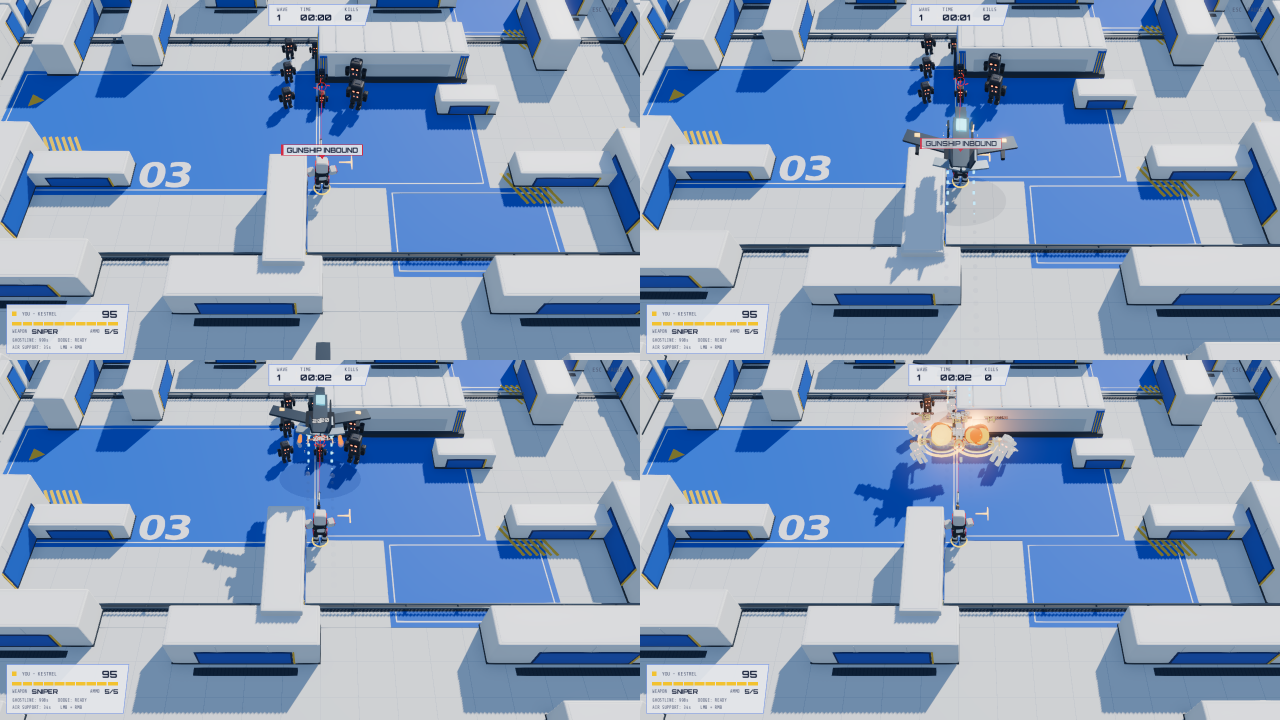
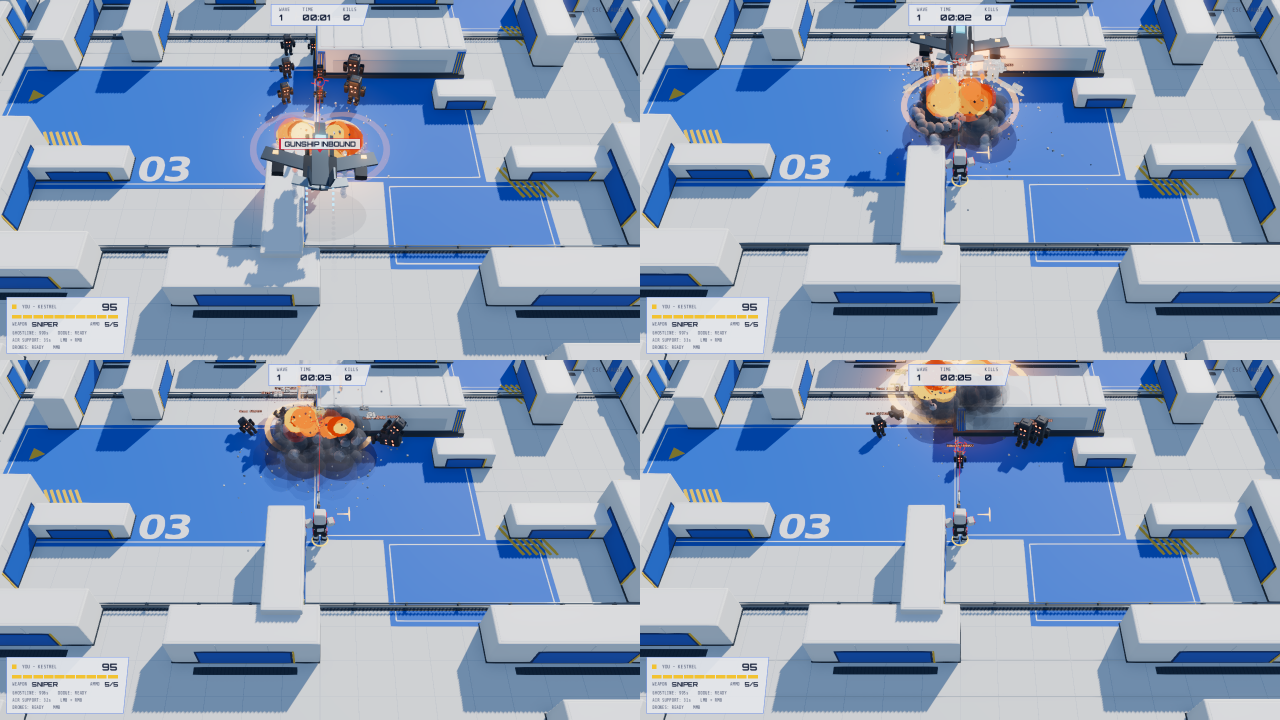
Turn gunship support into a five-second explosive bombardment

diff --git a/docs/verification.md b/docs/verification.md
@@ -493,3 +493,11 @@ At 1920 × 1080 on Intel Iris Xe, a warmed four-second Forward+ run with 73 live
 - Pause freezes drones and cooldowns. Waiting drones persist through upgrade screens and allow the next wave; committed terminal dives finish before phase changes. New chapters, restart, defeat and caller removal clean up transient swarms.
 - Added `tests/drone_swarm.gd`: all six operatives, whole-crowd ray targeting, five-second phase boundary, distinct dive targets, single-use cleanup, hover/follow, arrivals and lost targets, cover, boss balance, friendly fire, cooldown/stacking limits, actual middle-mouse input during a special, pause, upgrade handoff and reset. Rendered the actual mesh, ray sweep, terminal dives and explosions in `evidence/drone_swarm.png` using `tests/capture_drones.gd`. README, in-game control cards, per-player HUD and master prompt document the ability.
 - Validation: all 14 gameplay/ability suites passed, including the full campaign and cinematic/blade regressions; the rendered drone capture completed without errors. Linux and Windows release exports include compiled `drone_swarm.gdc`. Re-ran the full swarm suite against each exported PCK using the Godot engine: both passed. Both ZIPs passed CRC checks and the Linux executable launch smoke check passed.
+
+## Heavy five-second gunship bombardment (2026-10-18)
+
+- Extended the shared aircraft pass from 3.5 to five game seconds, with a slower, closer flight and targeting brackets held across the full attack. The aircraft now has heavier cannon barrels and visible underwing rocket racks.
+- Twin cannons fire 20 bursts / 40 visible explosive shells across the target strip, replacing small bullet hits with 52-damage, 2.6 m splash blasts. Four paired salvos launch eight larger rockets with 130 damage, 4.2 m splash and stronger knockback. All impacts use the same fireballs, rolling smoke, sparks, chunks, flash lights, shockwave rings and scorch marks as grenade/rocket weapons.
+- Preserved the independent 35-second cooldown, input chord, ability/overcharge scaling, reduced boss damage, friendly-fire protection and aerial kill staging. Scheduled launch times let late frames catch up without discarding the final ordnance at cleanup.
+- Extended `tests/air_support.gd` to verify all six operatives, the full fifth second, exactly 40 shell and eight rocket impacts, expanded splash, upgrade/overcharge and boss scaling, pause, allies, phase handoff, reset, and complete delivery at two frames per second. Updated README/master prompt and refreshed the rendered four-frame `evidence/air_support.png` capture at 0.9, 2.0, 3.1 and 4.45 seconds.
+- Validation: updated air-support suite and six related regressions (gameplay, drone swarm, specials, Kestrel, kill-cam timing, progression) passed. Rendered support captures completed without errors. Both desktop release exports compiled cleanly; the full support suite passed against both exported resource packs. ZIP CRC checks and Linux executable launch passed.

diff --git a/README.md b/README.md
@@ -37,7 +37,7 @@ You need a GPU with Vulkan support for the Forward+ renderer.
 - **Squad play:** solo, with an AI companion, or local co-op on keyboard + pad or two pads. Downed partners can be revived.
 - **Progression:** 17 upgrades between waves and five timed power-ups.
 - **Kill cams:** every 9th kill and the boss get a cinematic: bullet cam, impact zoom, blast crane or blade orbit.
-- **Air support:** every operative can call a visible gunship strafe at the cursor with both mouse buttons (both triggers on a pad), on a separate 35-second cooldown.
+- **Air support:** every operative can call a five-second gunship bombardment at the cursor with both mouse buttons (both triggers on a pad). Twin cannons fire 40 explosive shells and four paired salvos launch eight heavy rockets, with grenade/rocket fireballs, smoke, debris and shockwaves. Separate 35-second cooldown; teammates are safe.
 - **Drone swarm:** middle-click deploys three armored quad-rotors for every operative (right-stick click on a pad). They sweep enemies with ray guns for five seconds, then spread out into kamikaze attacks. Unused drones hover beside you until a new enemy appears. Separate 40-second cooldown; one active swarm per player.
 - **Effects:** voxel shattering, explosions with shockwaves, disintegration under energy weapons, shell casings and tracers.
 - **Audio:** realistic gunfire, sound effects and music generated with ElevenLabs.
@@ -114,7 +114,7 @@ Elites always drop a power-up, and bosses drop four pickups.
 | WASD | Move |
 | Mouse | Aim |
 | Left / right mouse button | Primary / special |
-| Left + right mouse buttons together | Gunship air support at the cursor (35 s cooldown) |
+| Left + right mouse buttons together | 5 s gunship bombardment at the cursor (35 s cooldown) |
 | Middle mouse button | Deploy three ray-gun / kamikaze drones (40 s cooldown) |
 | Space | Dodge |
 | Q / R, 1–8, mouse wheel | Previous / next / pick weapon |
@@ -126,7 +126,7 @@ Elites always drop a power-up, and bosses drop four pickups.
 | --- | --- |
 | Left / right stick | Move / aim |
 | Right / left trigger | Primary / special |
-| Both triggers together | Gunship air support along your aim (35 s cooldown) |
+| Both triggers together | 5 s gunship bombardment along your aim (35 s cooldown) |
 | Right stick click | Deploy three ray-gun / kamikaze drones (40 s cooldown) |
 | South / west face button | Dodge / revive |
 | Left / right bumper | Previous / next weapon |

diff --git a/Godot_Blender_Game_Master_Prompt.md b/Godot_Blender_Game_Master_Prompt.md
@@ -144,7 +144,7 @@ Deliver the .blend sources, exported .glb assets, production scripts, and front/
 
 Keyboard/mouse defaults: WASD move; mouse aim projected onto the gameplay plane; left mouse primary attack; right mouse special ability; Space dodge; E interact/revive; Escape pause. Normalize diagonal input. Handle ray intersections and obstructions robustly so aim does not jump when the mouse passes over walls.
 
-All six operatives also have gunship air support, aimed at the cursor with left + right mouse buttons together, or along the aim with both controller triggers. Give it a separate 35-second cooldown and HUD status. Prioritize the chord over individual attacks, accept either button press order, and never repeat the call while both remain held. The player keeps moving and may call support during an operative special. Show the aircraft strafing, tracers and ordnance, and protect teammates from friendly fire.
+All six operatives also have gunship air support, aimed at the cursor with left + right mouse buttons together, or along the aim with both controller triggers. Give it a separate 35-second cooldown and HUD status. Prioritize the chord over individual attacks, accept either button press order, and never repeat the call while both remain held. The player keeps moving and may call support during an operative special. The attack lasts five seconds: twin cannons deliver 40 explosive shells (2.6 m splash) and four paired rocket salvos deliver eight heavy rockets (4.2 m splash). Use the grenade/rocket fireball, smoke, shockwave, debris and scorch effects with strong knockback. Show visible flying ordnance and a slower aircraft pass, and protect teammates from friendly fire. Every round must detonate before cleanup, including after frame hitches.
 
 Controller defaults: left stick movement; right stick aim; right trigger primary attack; left trigger special ability; south face button dodge; west face button interact/revive; menu button pause. Preserve last valid aim when the stick returns to its dead zone. Provide remapping and sensitivity settings.
 
